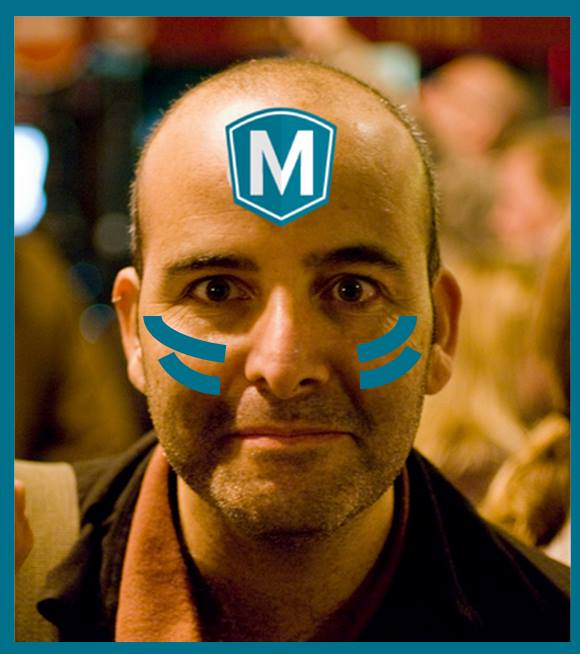
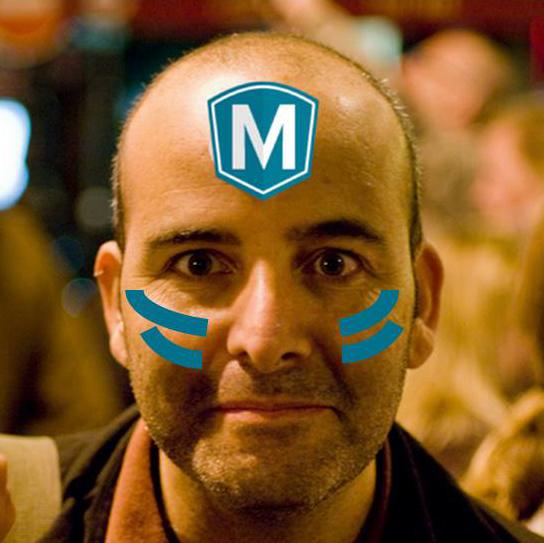
Fix images.

diff --git a/src/html/includes/_speaker_list.html b/src/html/includes/_speaker_list.html
@@ -1,2 +1,2 @@
-<div class="column speaker-wrapper" data-name="Amir Taiar" data-job="CTO at Reasonat" data-image="amir.jpg" data-title="Elm(probably)" data-dsecription="Got sick of JS? Elm will fix ya!" data-twitter="amir_taiar"><a class="open"><img src="images/amir.jpg" class="ui small centered circular image" /></a><h4><a class="open">Amir Taiar</a></h4><a class="open">CTO at Reasonat</a></div><div class="column speaker-wrapper" data-name="Amitai Burstein" data-job="CTO of Gizra" data-image="amitai.jpg" data-title="Elm(probably)" data-dsecription="Got sick of JS? Elm will fix ya!" data-twitter="amitaibu"><a class="open"><img src="images/amitai.jpg" class="ui small centered circular image" /></a><h4><a class="open">Amitai Burstein</a></h4><a class="open">CTO of Gizra</a></div><div class="column speaker-wrapper" data-name="Bojan Živanović" data-job="Lead Developer at Commerce Guys" data-image="bojan.jpg" data-title="Elm(probably)" data-dsecription="Got sick of JS? Elm will fix ya!" data-twitter="bojan_zivanovic"><a class="open"><img src="images/bojan.jpg" class="ui small centered circular image" /></a><h4><a class="open">Bojan Živanović</a></h4><a class="open">Lead Developer at Commerce Guys</a></div><div class="column speaker-wrapper" data-name="Lior kesos" data-job="Lead Developer at Commerce Guys" data-image="lior.jpg" data-title="Elm(probably)" data-dsecription="Got sick of JS? Elm will fix ya!" data-twitter="liorkesos"><a class="open"><img src="images/lior.jpg" class="ui small centered circular image" /></a><h4><a class="open">Lior kesos</a></h4><a class="open">Lead Developer at Commerce Guys</a></div><div class="column speaker-wrapper" data-name="Roy Segall" data-job="Snr. developer at Gizra" data-image="roy.jpg" data-title="It's time go get real! Realtime with Drupal" data-dsecription="Drupal is awesome for manging your content but what about real time features?<br /> Push notifications? Chat? Pushed content to the user? How Drupal can handle it<br /> Come to see about some real cool shit!
+<div class="column speaker-wrapper" data-name="Bojan Živanović" data-job="Lead Developer at Commerce Guys" data-image="bojan.jpg" data-title="Elm(probably)" data-dsecription="Got sick of JS? Elm will fix ya!" data-twitter="bojan_zivanovic" data-keynote="yes"><a class="open"><img src="images/bojan.jpg" class="ui small centered circular image" /></a><h4><a class="open"><span class="keynote">Keynote: </span>Bojan Živanović</a></h4><a class="open">Lead Developer at Commerce Guys</a></div><div class="column speaker-wrapper" data-name="Amir Taiar" data-job="CTO at Reasonat" data-image="amir.jpg" data-title="Elm(probably)" data-dsecription="Got sick of JS? Elm will fix ya!" data-twitter="amir_taiar"><a class="open"><img src="images/amir.jpg" class="ui small centered circular image" /></a><h4><a class="open">Amir Taiar</a></h4><a class="open">CTO at Reasonat</a></div><div class="column speaker-wrapper" data-name="Amitai Burstein" data-job="CTO of Gizra" data-image="amitai.jpg" data-title="Elm(probably)" data-dsecription="Got sick of JS? Elm will fix ya!" data-twitter="amitaibu"><a class="open"><img src="images/amitai.jpg" class="ui small centered circular image" /></a><h4><a class="open">Amitai Burstein</a></h4><a class="open">CTO of Gizra</a></div><div class="column speaker-wrapper" data-name="Lior kesos" data-job="CTO at Linnovate" data-image="lior.jpg" data-title="Elm(probably)" data-dsecription="Got sick of JS? Elm will fix ya!" data-twitter="liorkesos"><a class="open"><img src="images/lior.jpg" class="ui small centered circular image" /></a><h4><a class="open">Lior kesos</a></h4><a class="open">CTO at Linnovate</a></div><div class="column speaker-wrapper" data-name="Roy Segall" data-job="Snr. developer at Gizra" data-image="roy.jpg" data-title="It's time go get real! Realtime with Drupal" data-dsecription="Drupal is awesome for manging your content but what about real time features?<br /> Push notifications? Chat? Pushed content to the user? How Drupal can handle it<br /> Come to see about some real cool shit!
 " data-twitter="RoySegall"><a class="open"><img src="images/roy.jpg" class="ui small centered circular image" /></a><h4><a class="open">Roy Segall</a></h4><a class="open">Snr. developer at Gizra</a></div>

diff --git a/gulpfile.js b/gulpfile.js
@@ -38,9 +38,11 @@ gulp.task('images', function() {
 gulp.task('speakers', function() {
   var tpl = '<div class="column speaker-wrapper" {{data}}>' +
             '<a class="open"><img src="images/{{image}}" class="ui small centered circular image" /></a>' +
-            '<h4><a class="open">{{name}}</a></h4>' +
+            '<h4><a class="open">{{keynote}}{{name}}</a></h4>' +
             '<a class="open">{{job}}</a>' +
             '</div>';
+
+  var keynote = '';
 
   fs.readdir('./src/speakers', function(err, files) {
     var content = files.map(function(file) {
@@ -50,12 +52,22 @@ gulp.task('speakers', function() {
         return 'data-' + key + '="' + result[key] + '"';
       });
 
-      return tpl
+      var speaker_info = tpl
         .replace('{{data}}', bar.join(' '))
         .replace('{{name}}', result.name)
         .replace('{{job}}', result.job)
         .replace('{{image}}', result.image);
+
+      if (result.keynote != undefined) {
+        keynote = speaker_info
+          .replace('{{keynote}}', '<span class="keynote">Keynote: </span>');
+        return '';
+      }
+
+      return speaker_info.replace('{{keynote}}', '');
     });
+
+    content.unshift(keynote);
 
     fs.writeFileSync('src/html/includes/_speaker_list.html', content.join(""));
   });

diff --git a/src/sass/layout/_speakers.scss b/src/sass/layout/_speakers.scss
@@ -12,6 +12,18 @@
     padding-bottom: 50px;
   }
 
+  .keynote {
+    color: $drupal-color;
+  }
+
+  .speaker-wrapper {
+
+    .ui.small.image, .ui.small.images .image, .ui.small.images img, .ui.small.images svg {
+      width: auto;
+      height: 150px;
+    }
+  }
+
   .session-info {
     position: absolute;
     background: $color2;

diff --git a/src/sass/layout/_strip.scss b/src/sass/layout/_strip.scss
@@ -23,7 +23,7 @@
 
   .ui.primary.button {
     margin-top: 50px;
-    background: #00a7ff;
+    background: $drupal-color;
     color: white;
     font-size: 36px;
   }

diff --git a/src/sass/theme/variables.scss b/src/sass/theme/variables.scss
@@ -3,3 +3,4 @@ $header-color: #000;
 $header-text: #fff;
 $color1: #ffd600;
 $color2: #333333;
+$drupal-color: #00a7ff;
